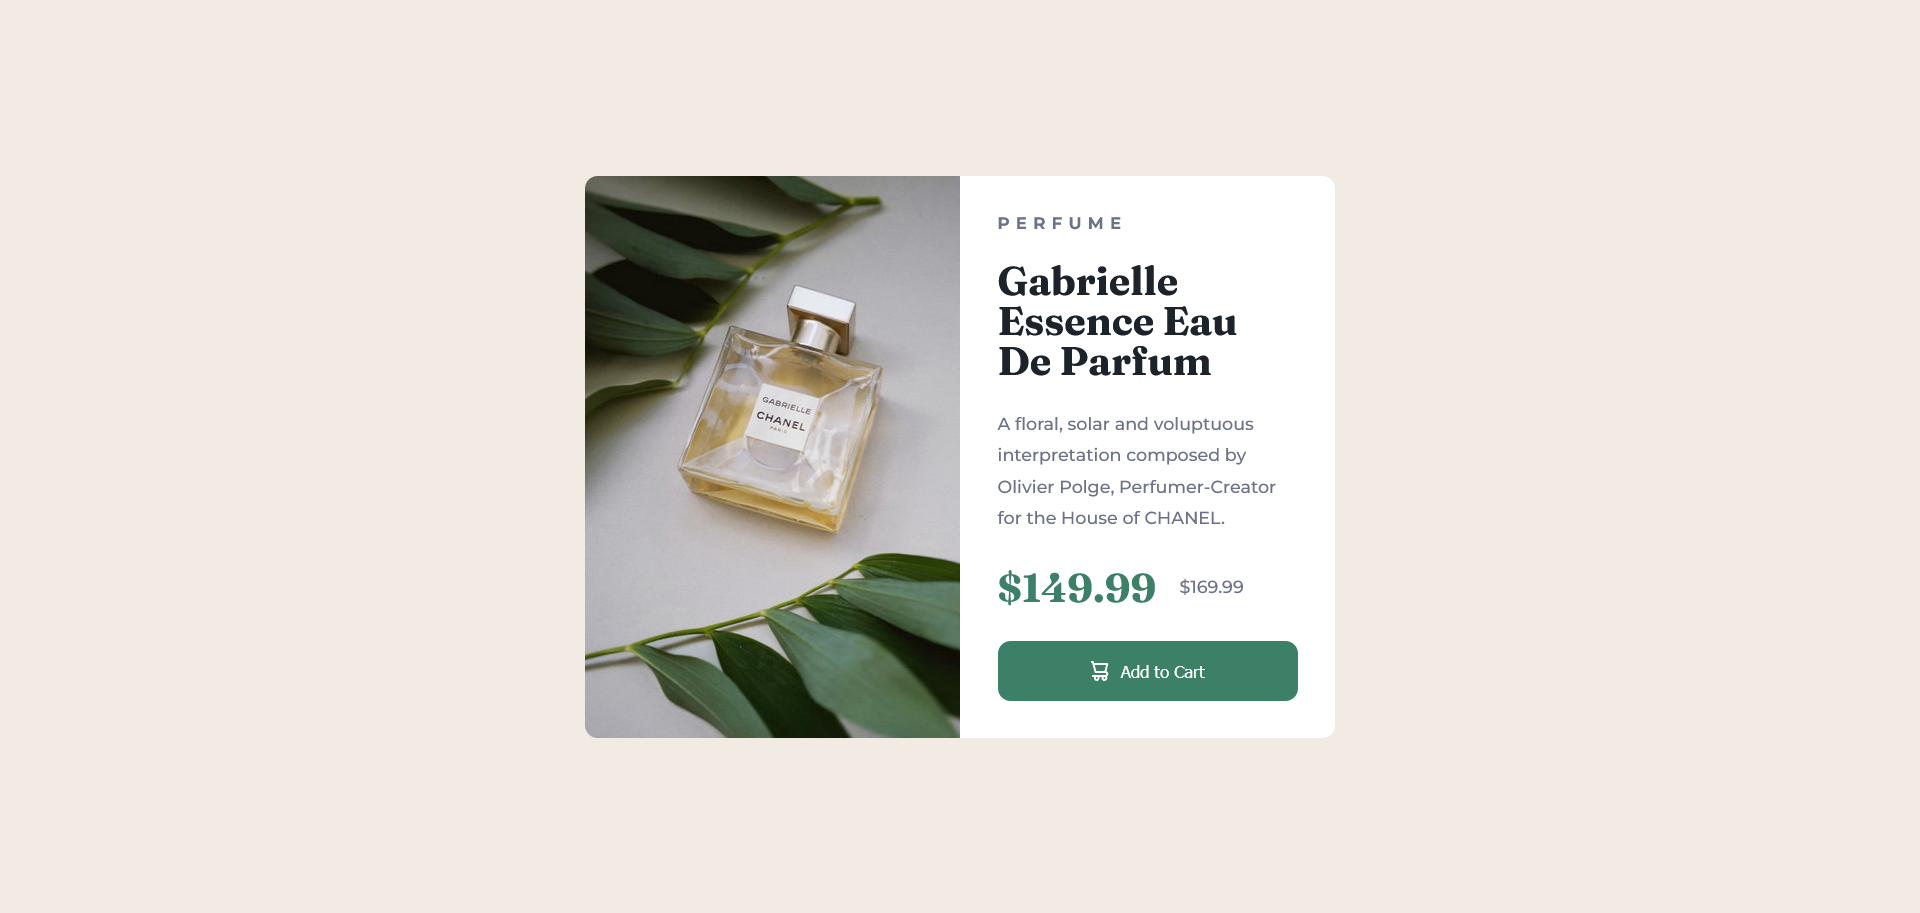
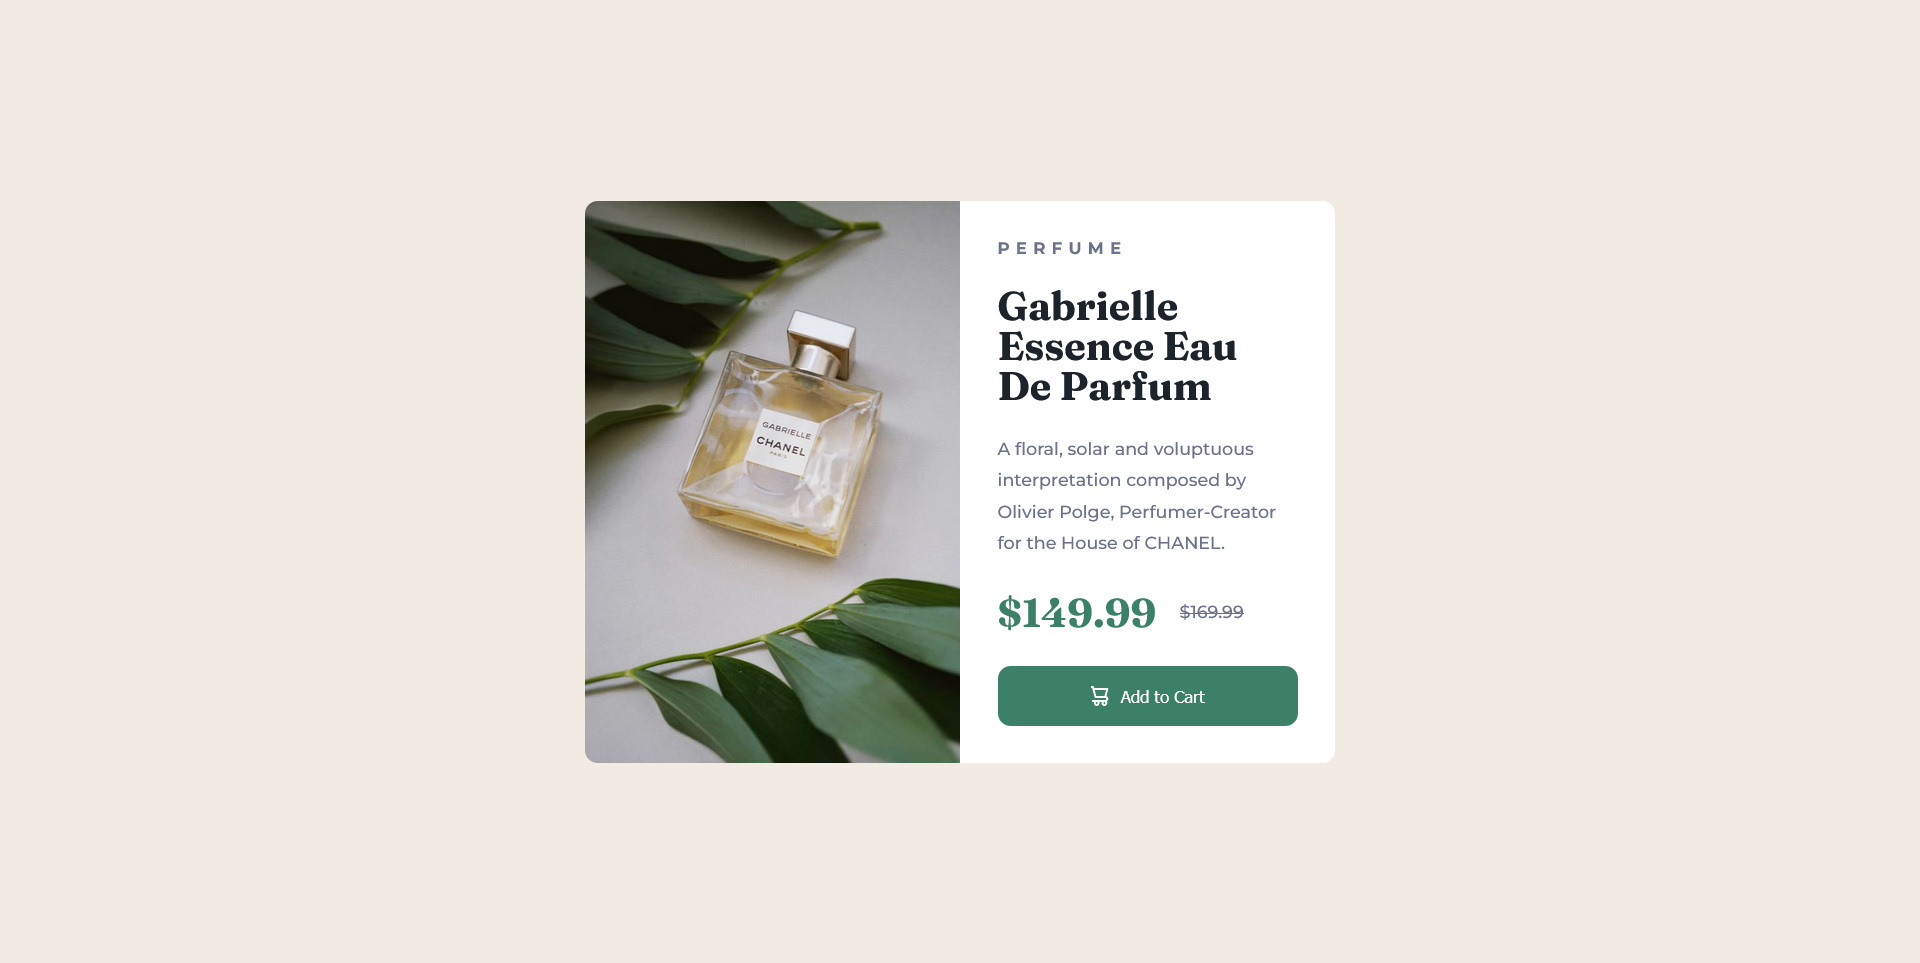
Content Edit 2

diff --git a/css/styles.css b/css/styles.css
@@ -74,6 +74,7 @@ p {
   color: hsl(228, 12%, 48%);
   margin-left: 15px;
   vertical-align: text-bottom;
+  text-decoration: line-through;
 }
 
 button {
@@ -83,6 +84,11 @@ button {
   padding: 16px;
   color: hsl(0, 0%, 100%);
   width: 100%;
+  cursor: pointer;
+}
+
+button:hover {
+  background-color: hsl(158, 36%,20%);
 }
 
 button:active {
